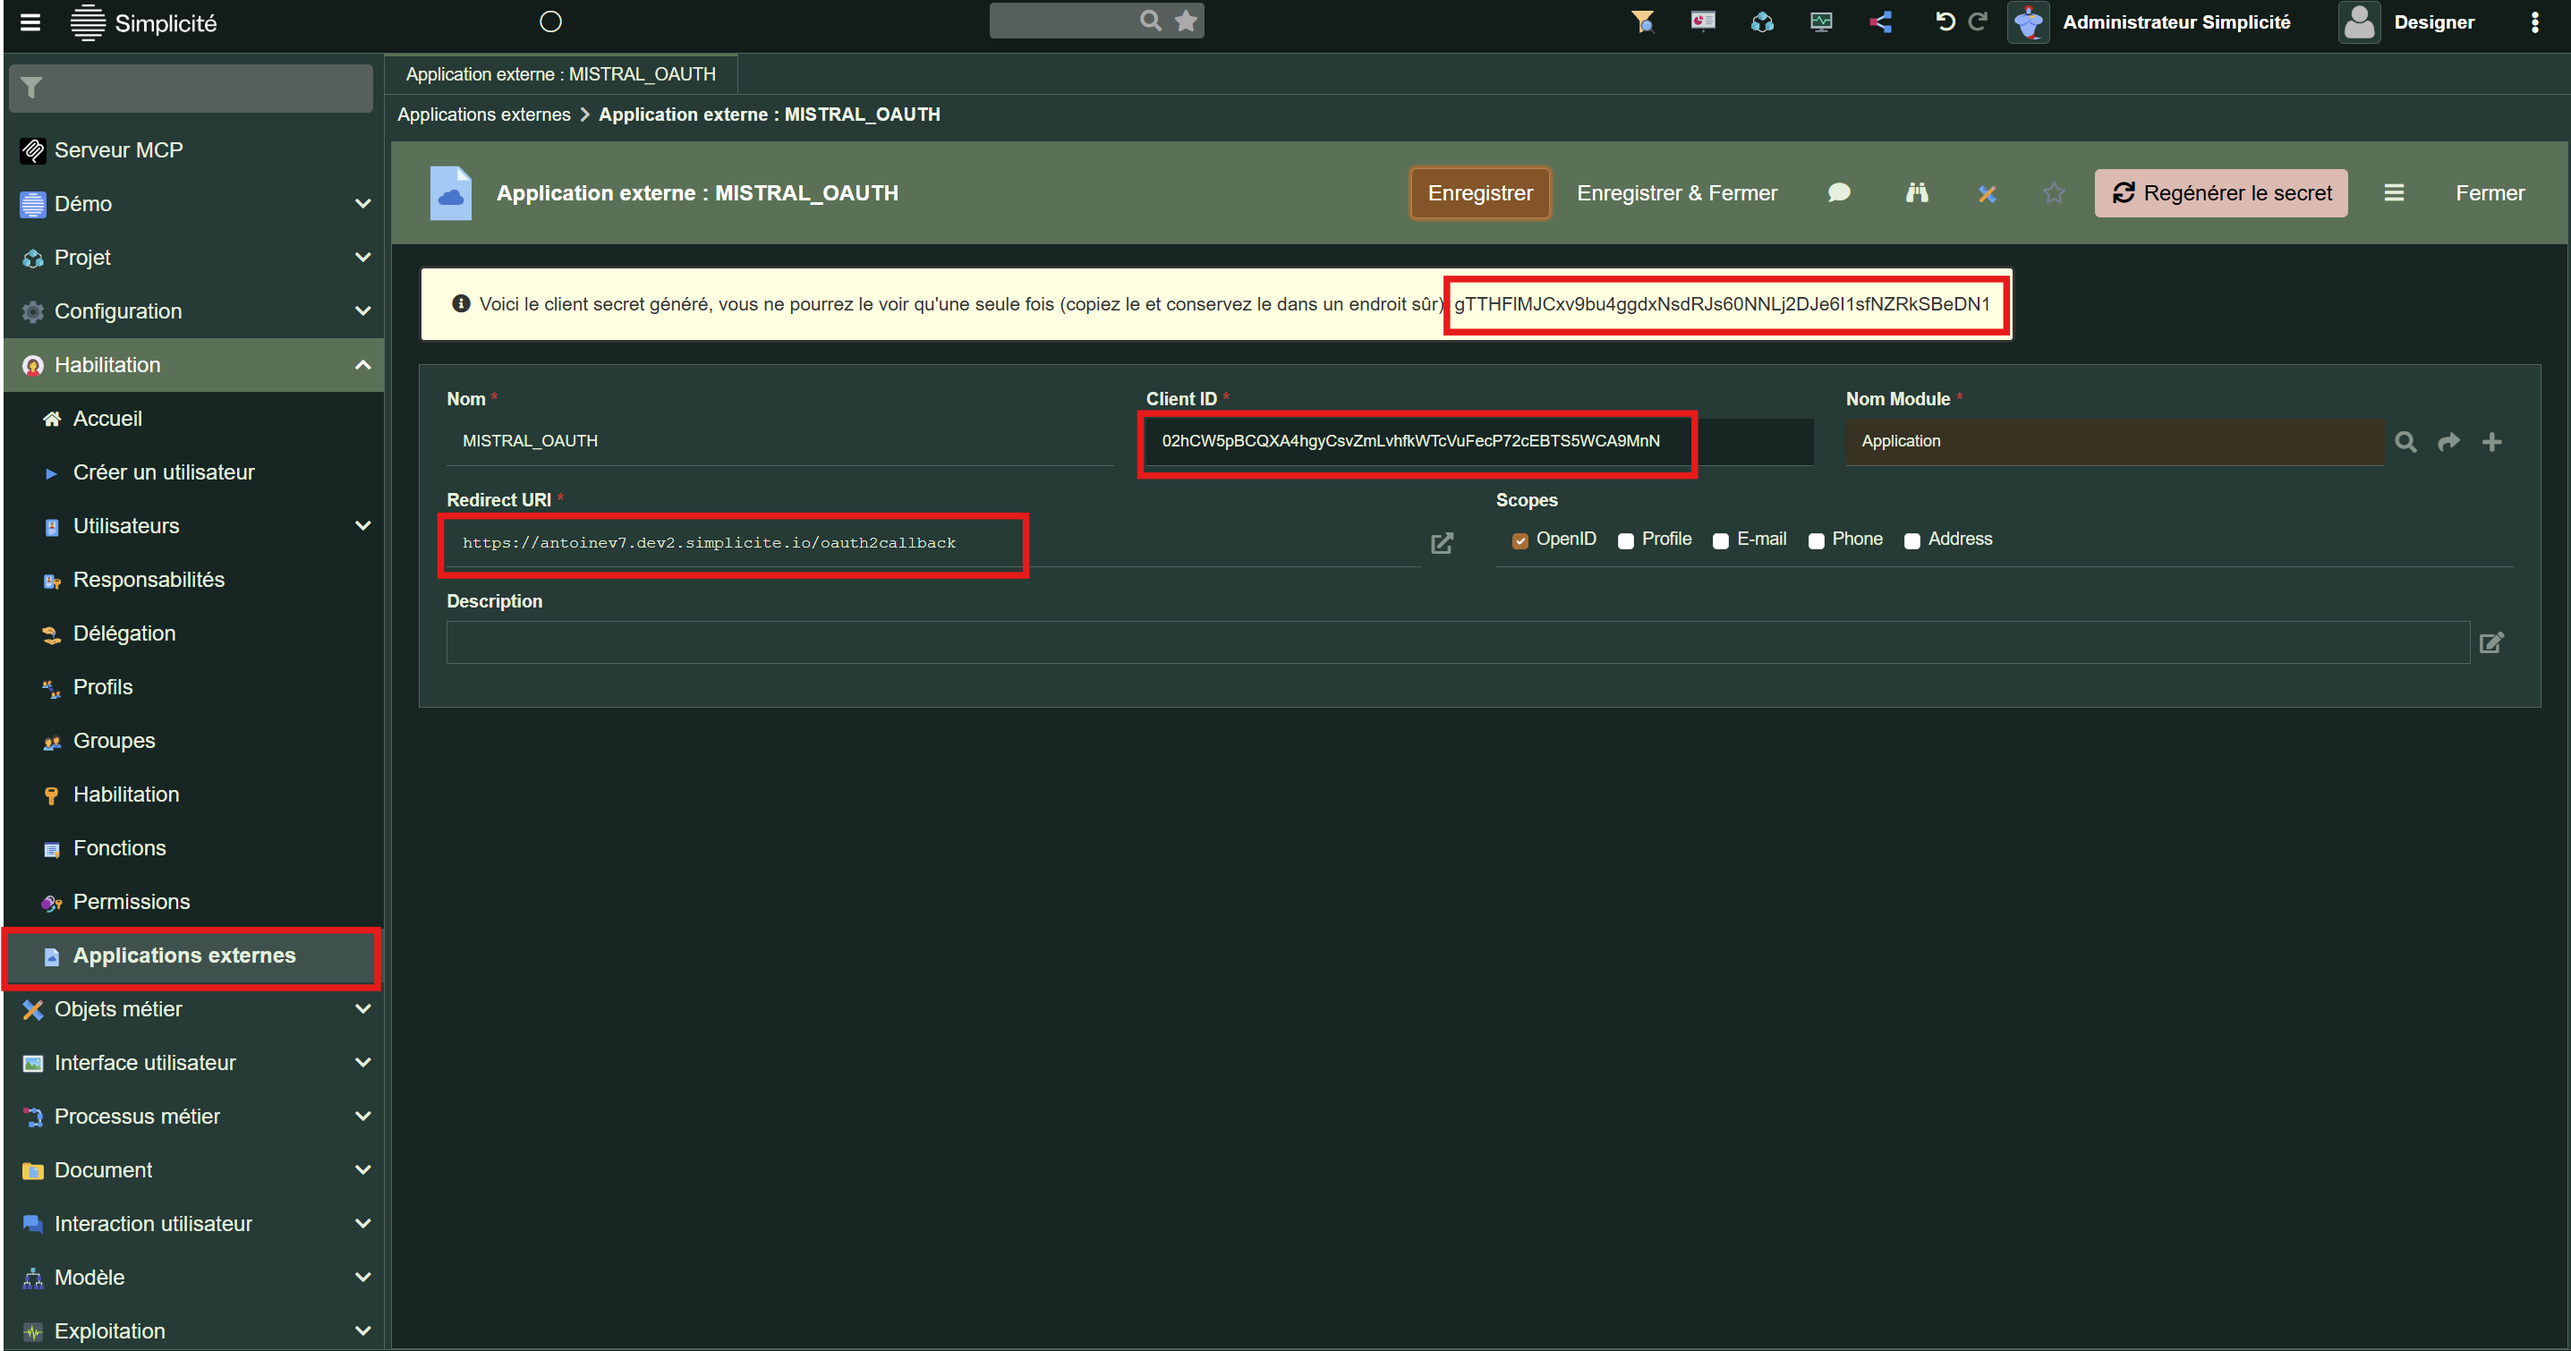
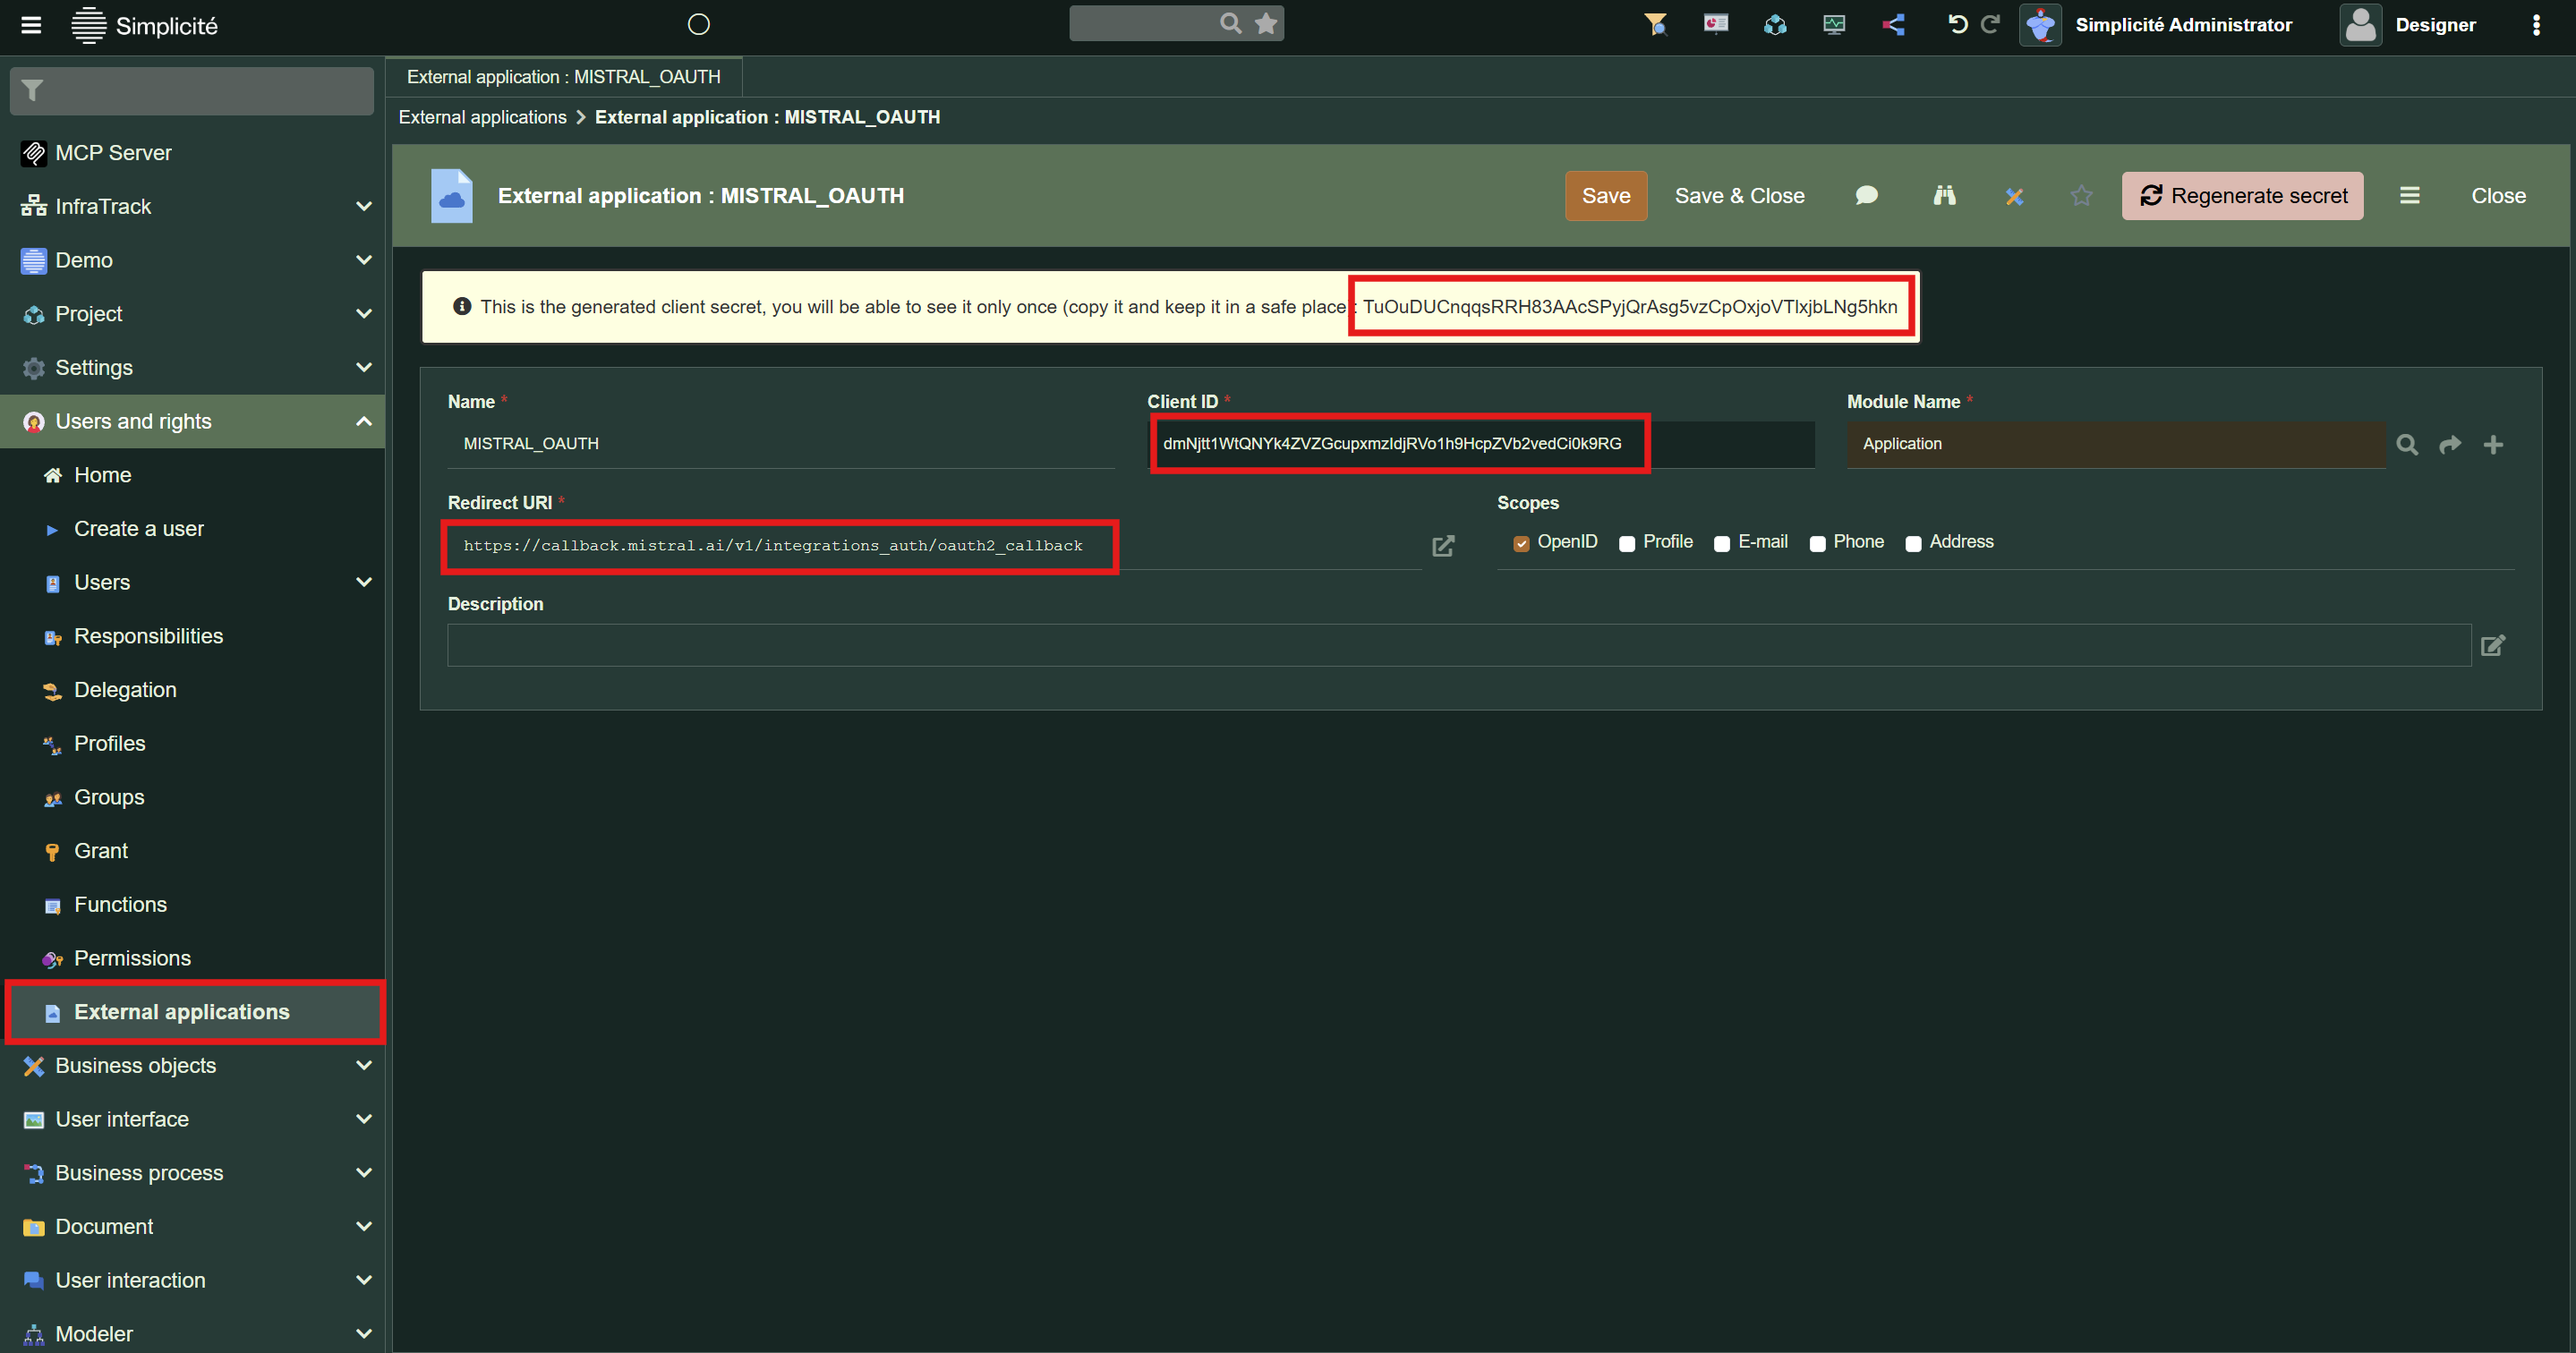
Native MCP server module

diff --git a/docs/docs/mcp/Installation.md b/docs/docs/mcp/Installation.md
@@ -35,7 +35,6 @@ Finally, get_skill is the contextualization tool: it loads a targeted prompt int
 | `get_ai_doc` | Discovery | Compact, LLM-optimized documentation for a module, object, or enum (fields, states, actions, hooks). Preferred over `get_md_documentation`. |
 | `get_md_documentation` | Discovery | Human-readable Markdown description of a module. More verbose than `get_ai_doc` — use only when more detail is needed. |
 | `get_physical_mapping` | Discovery | Physical database mapping of a module. |
-| `get_openapi` | Discovery | Full OpenAPI 3.x spec for a module. Use only when API endpoint details are needed. |
 | `find_object_by_name` | Discovery | Resolves a user-friendly name to the technical object code. Call first when the technical name is uncertain. |
 | `get_object_code` | Designer | Retrieves the full Java source of a business object. Always call before editing. |
 | `set_object_code` | Designer | Replaces the full Java source of a business object. |
@@ -47,7 +46,7 @@ Finally, get_skill is the contextualization tool: it loads a targeted prompt int
 | `update_record` | CRUD | Updates an existing record by `row_id`. |
 | `delete_record` | CRUD | Deletes a record (irreversible). |
 | `call_action` | CRUD | Invokes a business logic action on an object or record. Prefer over manual field updates when an action exists. |
-| `get_skill` | Contextualization | Loads a targeted business prompt into the LLM's context based on the request type. Requires the `MCP Server` module. |
+| `get_skill` | Contextualization | Loads a targeted business prompt into the LLM's context based on the request type. |
 
 Intended Workflow
 --------
@@ -76,10 +75,6 @@ accomplish the same thing — and without guidance, the LLM may take incorrect p
 
 Skills solve this problem. Each skill is a targeted prompt that gives the LLM the right approach for a given type of request,
 avoiding the trial-and-error exploration phase.
-
-To use get_skill, the MCP Server module must be installed from the AppStore (under Tools). This module exposes a McpPrompt object that stores skills.
-A starter dataset is provided, covering mainly maker needs (BUSINESS_OBJECT_CREATION, CROSSTAB, STATE_MODEL_CREATOR, etc.),
-along with a business skill example — CRM_CONTACTS, an agent that fills in demo contacts from a customer request written in natural language.
 
 Improving over time
 --------
